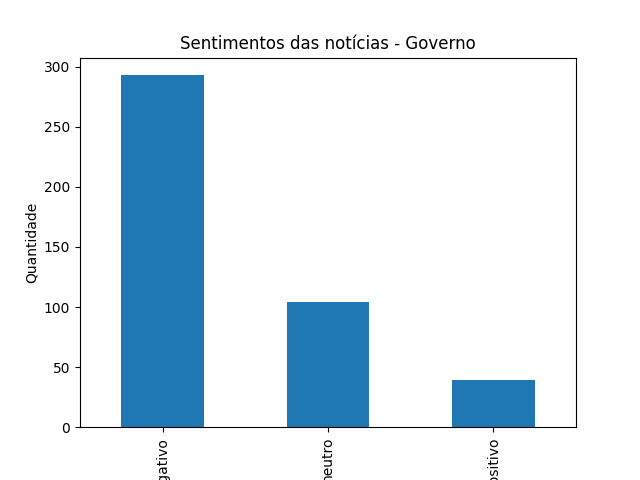
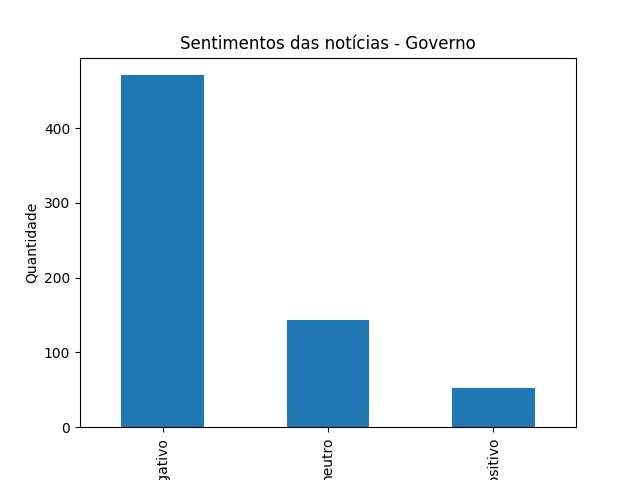
Descrição dos assets

diff --git a/projeto_dados/projeto_dados/assets.py b/projeto_dados/projeto_dados/assets.py
@@ -1,6 +1,7 @@
-import os
+"""import os
 import json
 import pandas as pd
+from datetime import datetime
 from dagster import get_dagster_logger, asset
 from crawler_noticia.governo.governo.spiders.noticia import G1Spider
 from crawler_noticia.economia.economia.spiders.noticia import NoticiasSpider
@@ -10,10 +11,13 @@ import matplotlib.pyplot as plt
 from vaderSentiment.vaderSentiment import SentimentIntensityAnalyzer
 
 # Função para rodar o spider e salvar os dados no MongoDB
-def run_spider(spider, output_file, collection_name):
+def run_spider(spider, collection_name):
     logger = get_dagster_logger()
-    if os.path.exists(output_file):
-        os.remove(output_file)
+
+    # Adiciona um timestamp ao nome do arquivo de saída
+    timestamp = datetime.now().strftime("%d%m%Y%H%M%S")
+    output_file = f"data/{collection_name}_{timestamp}.json"
+
     os.makedirs(os.path.dirname(output_file), exist_ok=True)
 
     process = CrawlerProcess(settings={
@@ -27,17 +31,33 @@ def run_spider(spider, output_file, collection_name):
     if os.path.exists(output_file):
         with open(output_file, "r", encoding='utf-8') as f:
             data = json.load(f)
-            salvar_no_mongo(data, collection_name)
-            logger.info(f"Data for {collection_name} saved to MongoDB")
+
+            # Adiciona um timestamp a cada documento
+            document_timestamp = datetime.now().isoformat()
+            for entry in data:
+                entry['timestamp'] = document_timestamp
+
+            salvar_no_mongo(data, collection_name)  # Adiciona dados ao MongoDB
+            logger.info(f"Novos dados adicionados à coleção {collection_name} no MongoDB")
+
+# Função para salvar dados tratados no MongoDB
+def salvar_dados_tratados(dataframe, collection_name):
+    db = conectar_mongo()
+    colecao_tratada = db[f"{collection_name}_tratados"]  # Nome da coleção para dados tratados
+    # Adiciona um timestamp a cada documento
+    timestamp = datetime.now().isoformat()
+    dataframe['timestamp'] = timestamp
+    # Converte o DataFrame para uma lista de dicionários e insere no MongoDB
+    colecao_tratada.insert_many(dataframe.to_dict('records'))
 
 # Assets para os crawlers
-@asset 
-def crawler_economia() -> None:
-    run_spider(NoticiasSpider, "data/economia.json", "economia")
+@asset(description="Coleta dados de notícias de economia.")
+def crawler_economia():
+    run_spider(NoticiasSpider, "economia")
 
-@asset 
-def crawler_governo() -> None:
-    run_spider(G1Spider, "data/governo.json", "governo")
+@asset(description="Coleta dados de notícias de governo.")
+def crawler_governo():
+    run_spider(G1Spider, "governo")
 
 # Função para tratar os dados de economia (sem análise de sentimento)
 def tratar_dados_economia_func(colecao_nome: str) -> pd.DataFrame:
@@ -64,6 +84,10 @@ def tratar_dados_economia_func(colecao_nome: str) -> pd.DataFrame:
     if 'target' not in data.columns:
         data['target'] = 0  # ou qualquer lógica que você tenha para definir 'target'
     logger.info(f"Dados após adicionar a coluna 'target': {data.head()}")
+
+    # Salva os dados tratados
+    salvar_dados_tratados(data, colecao_nome)
+    logger.info(f"Dados tratados para {colecao_nome} salvos no MongoDB")
 
     return data
 
@@ -103,6 +127,10 @@ def tratar_dados_governo_func(colecao_nome: str) -> pd.DataFrame:
     if 'target' not in data.columns:
         data['target'] = 0  # ou qualquer lógica que você tenha para definir 'target'
     logger.info(f"Dados após adicionar a coluna 'target': {data.head()}")
+
+    # Salva os dados tratados
+    salvar_dados_tratados(data, colecao_nome)
+    logger.info(f"Dados tratados para {colecao_nome} salvos no MongoDB")
 
     return data
 
@@ -204,4 +232,155 @@ def treinar_ia_governo(tratar_dados_governo: pd.DataFrame) -> None:
     gerar_grafico_acuracia("Governo", accuracy)
 
     # Gerar gráfico de sentimentos
+    gerar_grafico_sentimentos(tratar_dados_governo, "Governo")"""
+  
+  
+  
+import os
+import json
+import pandas as pd
+from datetime import datetime
+from dagster import get_dagster_logger, asset
+from crawler_noticia.governo.governo.spiders.noticia import G1Spider
+from crawler_noticia.economia.economia.spiders.noticia import NoticiasSpider
+from scrapy.crawler import CrawlerProcess
+from db_mongo.conexao_mongo import salvar_no_mongo, conectar_mongo
+import matplotlib.pyplot as plt
+from vaderSentiment.vaderSentiment import SentimentIntensityAnalyzer
+
+# Utilidade para gerar gráficos de acurácia
+def gerar_grafico_acuracia(nome_modelo, accuracy):
+    os.makedirs('resultados', exist_ok=True)
+    plt.figure()
+    plt.bar([nome_modelo], [accuracy])
+    plt.ylabel('Acurácia')
+    plt.title(f'Acurácia do modelo {nome_modelo}')
+    plt.savefig(f'resultados/{nome_modelo}_acuracia.png')
+    plt.close()
+
+# Utilidade para gerar gráficos de sentimentos
+def gerar_grafico_sentimentos(df, nome_modelo):
+    if 'sentimento_classificacao' not in df.columns:
+        raise ValueError("A coluna 'sentimento_classificacao' não está presente no DataFrame.")
+    
+    sentimentos = df['sentimento_classificacao'].value_counts()
+    os.makedirs('resultados', exist_ok=True)
+    plt.figure()
+    sentimentos.plot(kind='bar')
+    plt.ylabel('Quantidade')
+    plt.title(f'Sentimentos das notícias - {nome_modelo}')
+    plt.savefig(f'resultados/{nome_modelo}_sentimentos.png')
+    plt.close()
+
+# Função para rodar o spider e salvar os dados no MongoDB
+def run_spider(spider, collection_name):
+    logger = get_dagster_logger()
+    timestamp = datetime.now().strftime("%d%m%Y%H%M%S")
+    output_file = f"data/{collection_name}_{timestamp}.json"
+    os.makedirs(os.path.dirname(output_file), exist_ok=True)
+    process = CrawlerProcess(settings={"FEED_FORMAT": "json", "FEED_URI": output_file})
+    process.crawl(spider)
+    process.start()
+
+    if os.path.exists(output_file):
+        with open(output_file, "r", encoding='utf-8') as f:
+            data = json.load(f)
+            document_timestamp = datetime.now().isoformat()
+            for entry in data:
+                entry['timestamp'] = document_timestamp
+            salvar_no_mongo(data, collection_name)
+            logger.info(f"Novos dados adicionados à coleção {collection_name} no MongoDB")
+
+# Função para salvar dados tratados no MongoDB
+def salvar_dados_tratados(dataframe, collection_name):
+    db = conectar_mongo()
+    colecao_tratada = db[f"{collection_name}_tratados"]
+    timestamp = datetime.now().isoformat()
+    dataframe['timestamp'] = timestamp
+    colecao_tratada.insert_many(dataframe.to_dict('records'))
+
+# Asset para coletar dados de notícias de economia
+@asset(description="Coleta dados de notícias de economia.")
+def crawler_economia():
+    run_spider(NoticiasSpider, "economia")
+
+# Asset para coletar dados de notícias de governo
+@asset(description="Coleta dados de notícias de governo.")
+def crawler_governo():
+    run_spider(G1Spider, "governo")
+
+# Função genérica para tratamento de dados
+def tratar_dados_func(colecao_nome: str, sentiment_analysis: bool = False) -> pd.DataFrame:
+    logger = get_dagster_logger()
+    db = conectar_mongo()
+    colecao = db[colecao_nome]
+    data = pd.DataFrame(list(colecao.find()))
+    if data.empty:
+        raise ValueError(f"A coleção {colecao_nome} está vazia.")
+    data = data.drop(columns=['_id'], errors='ignore')
+    if 'body' in data.columns:
+        data['body'] = data['body'].apply(lambda x: x['text'] if isinstance(x, dict) else x)
+    if sentiment_analysis:
+        analyzer = SentimentIntensityAnalyzer()
+        data['sentimento'] = data['body'].apply(lambda x: analyzer.polarity_scores(x)['compound'] if isinstance(x, str) else None)
+        data['sentimento_classificacao'] = data['sentimento'].apply(lambda x: 'positivo' if x > 0 else ('negativo' if x < 0 else 'neutro'))
+    data['target'] = 0  # ou qualquer lógica que você tenha para definir 'target'
+    salvar_dados_tratados(data, colecao_nome)
+    return data
+
+# Asset para processar dados de economia
+@asset(description="Processa dados de economia.")
+def tratar_dados_economia():
+    return tratar_dados_func('economia')
+
+# Asset para processar dados de governo com análise de sentimentos
+@asset(description="Processa dados de governo com análise de sentimento.")
+def tratar_dados_governo():
+    return tratar_dados_func('governo', sentiment_analysis=True)
+
+@asset(description="Treina um modelo de aprendizado de máquina usando dados processados de economia. A função seleciona apenas as colunas numéricas do DataFrame para uso como variáveis independentes (X) e a coluna 'target' como a variável dependente (y). Divide os dados em conjuntos de treino e teste, treina um modelo RandomForest e avalia sua acurácia. Gera um gráfico de barras mostrando a acurácia do modelo.")
+def treinar_ia_economia(tratar_dados_economia: pd.DataFrame) -> None:
+    from sklearn.model_selection import train_test_split
+    from sklearn.ensemble import RandomForestClassifier
+    from sklearn.metrics import accuracy_score
+    logger = get_dagster_logger()
+
+    # Prepara os dados para treinamento
+    X = tratar_dados_economia.select_dtypes(include=[float, int])
+    y = tratar_dados_economia['target']
+    X_train, X_test, y_train, y_test = train_test_split(X, y, test_size=0.2, random_state=42)
+
+    # Treina o modelo RandomForest
+    modelo = RandomForestClassifier()
+    modelo.fit(X_train, y_train)
+    y_pred = modelo.predict(X_test)
+    accuracy = accuracy_score(y_test, y_pred)
+    
+    # Gera e salva o gráfico de acurácia
+    gerar_grafico_acuracia("Economia", accuracy)
+
+
+@asset(description="Treina um modelo de aprendizado de máquina com dados de governo, incluindo a análise de sentimentos dos textos. Este processo inclui a preparação dos dados, onde as colunas numéricas são utilizadas como variáveis independentes e a coluna 'target' como dependente. Após dividir os dados em conjuntos de treino e teste, um modelo RandomForest é treinado e testado. A acurácia do modelo é avaliada e um gráfico de barras é gerado para visualizar a acurácia. Além disso, um gráfico de barras dos sentimentos das notícias é gerado para análise adicional.")
+def treinar_ia_governo(tratar_dados_governo: pd.DataFrame) -> None:
+    from sklearn.model_selection import train_test_split
+    from sklearn.ensemble import RandomForestClassifier
+    from sklearn.metrics import accuracy_score
+    logger = get_dagster_logger()
+
+    # Prepara os dados para treinamento
+    X = tratar_dados_governo.select_dtypes(include=[float, int])
+    y = tratar_dados_governo['target']
+    X_train, X_test, y_train, y_test = train_test_split(X, y, test_size=0.2, random_state=42)
+
+    # Treina o modelo RandomForest
+    modelo = RandomForestClassifier()
+    modelo.fit(X_train, y_train)
+    y_pred = modelo.predict(X_test)
+    accuracy = accuracy_score(y_test, y_pred)
+    
+    # Gera e salva o gráfico de acurácia
+    gerar_grafico_acuracia("Governo", accuracy)
+
+    # Gera e salva o gráfico de sentimentos
     gerar_grafico_sentimentos(tratar_dados_governo, "Governo")
+

diff --git a/projeto_dados/crawler_noticia/governo/governo/spiders/noticia.py b/projeto_dados/crawler_noticia/governo/governo/spiders/noticia.py
@@ -32,3 +32,6 @@ class G1Spider(scrapy.Spider):
             'body': {'text': body}
         }
         yield item
+
+
+

diff --git a/projeto_dados/crawler_noticia/economia/economia/spiders/noticia.py b/projeto_dados/crawler_noticia/economia/economia/spiders/noticia.py
@@ -22,3 +22,5 @@ class NoticiasSpider(scrapy.Spider):
         
 
 
+
+
